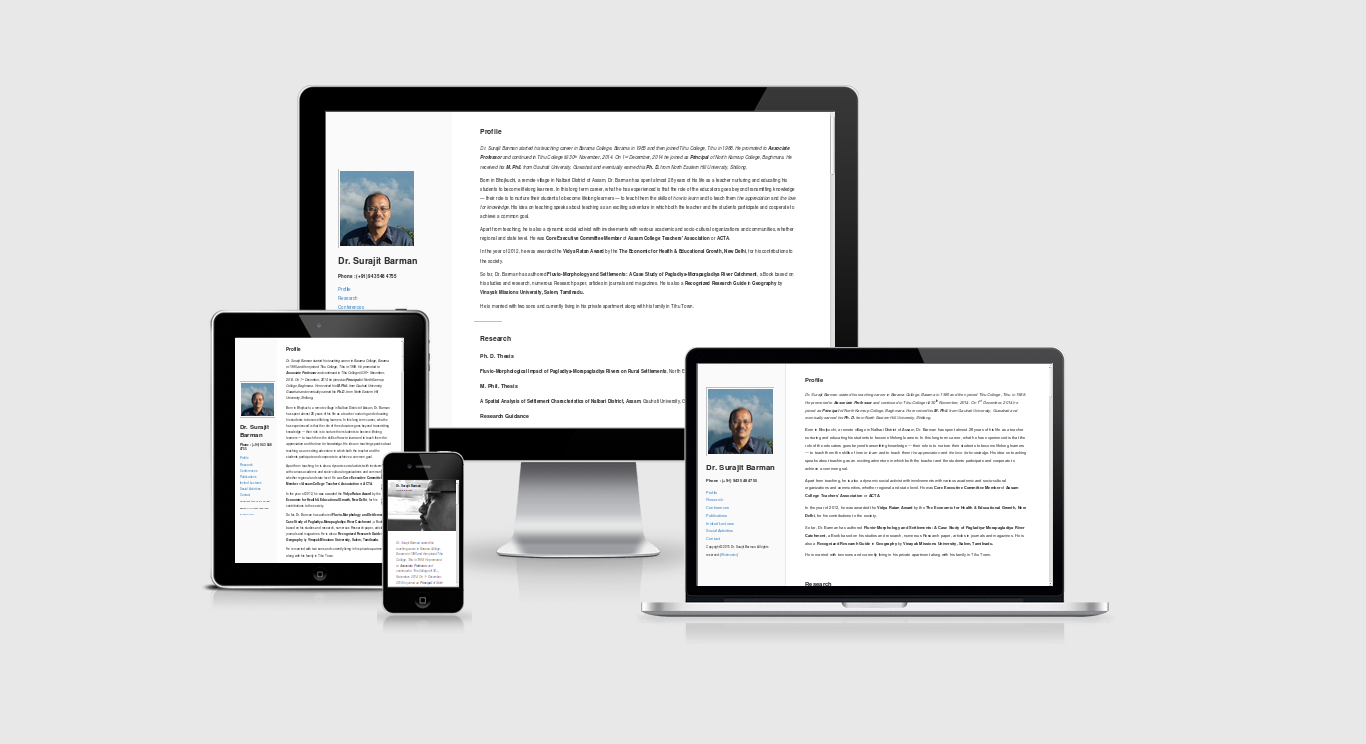
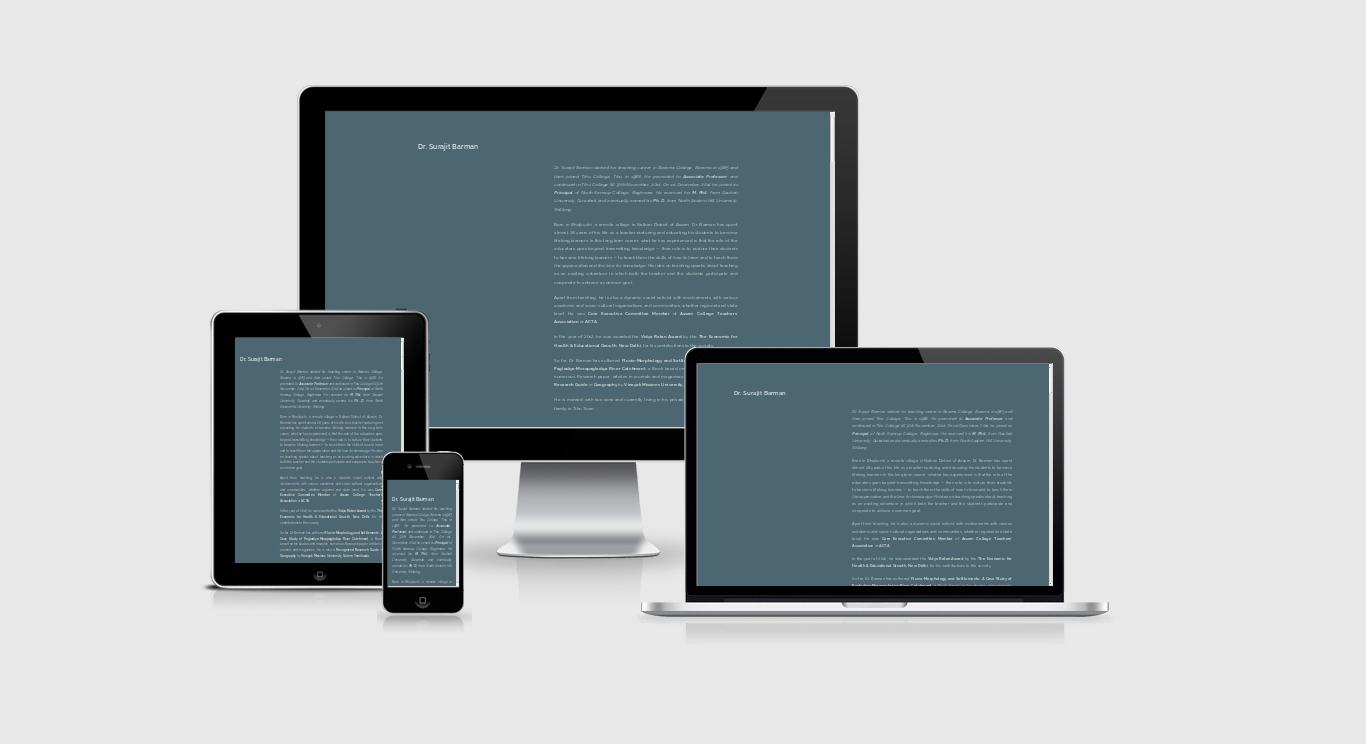
Update site design

Changed region(s): [[0.1537, 0.1237, 0.7687, 0.8038]]

diff --git a/index.html b/index.html
@@ -20,10 +20,11 @@ p a, p a:visited { line-height: inherit; }
 
 header { padding: 89px 0 89px 0; color: #fff; text-transform: uppercase; background-color: #4c6672; }
 
+h1 { line-height: 2; }
 h2 { color: #4c6672; }
 
 .intro { padding: 89px 0 55px 0; color: #4c6672; }
-.intro h6 { padding: 13px 0 0 0; font-weight: 500; }
+.intro h6 { padding: 13px 0 0 0; font-weight: 500; line-height: 2; }
 
 .about { border-top: 1px solid #f3f5f6; }
 .about p { padding: 55px 0; line-height: 2; font-size: 16px; }
